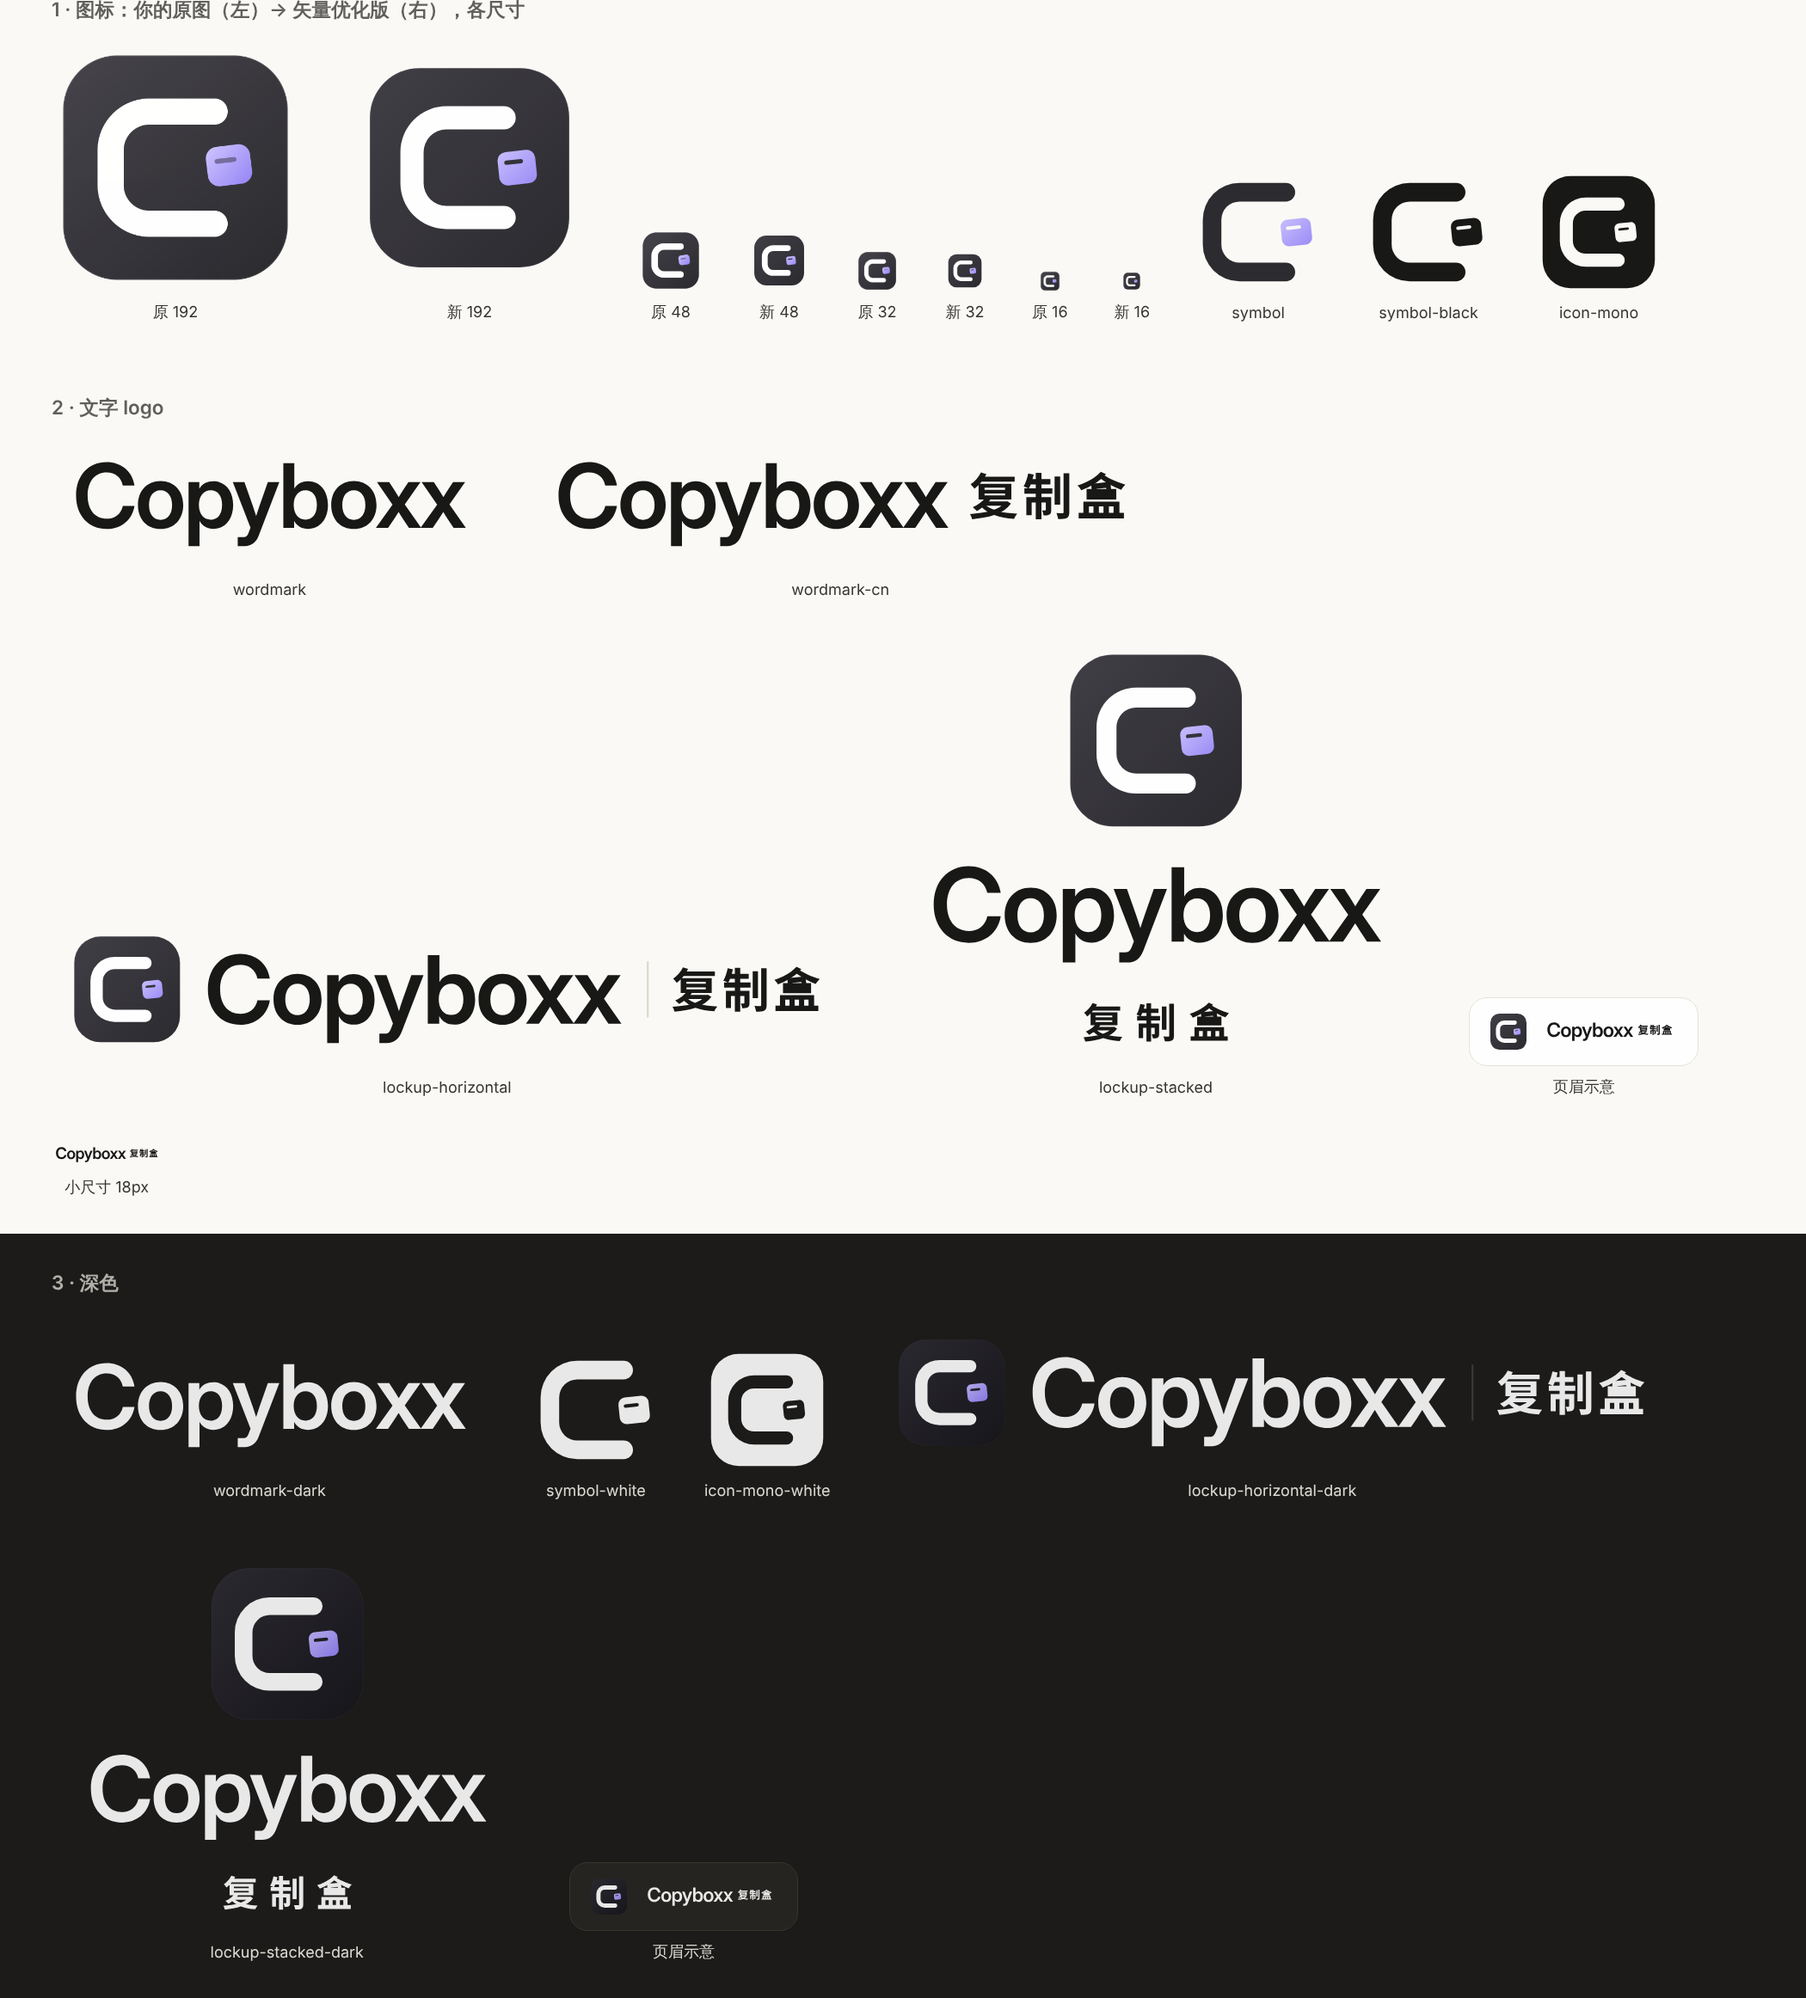
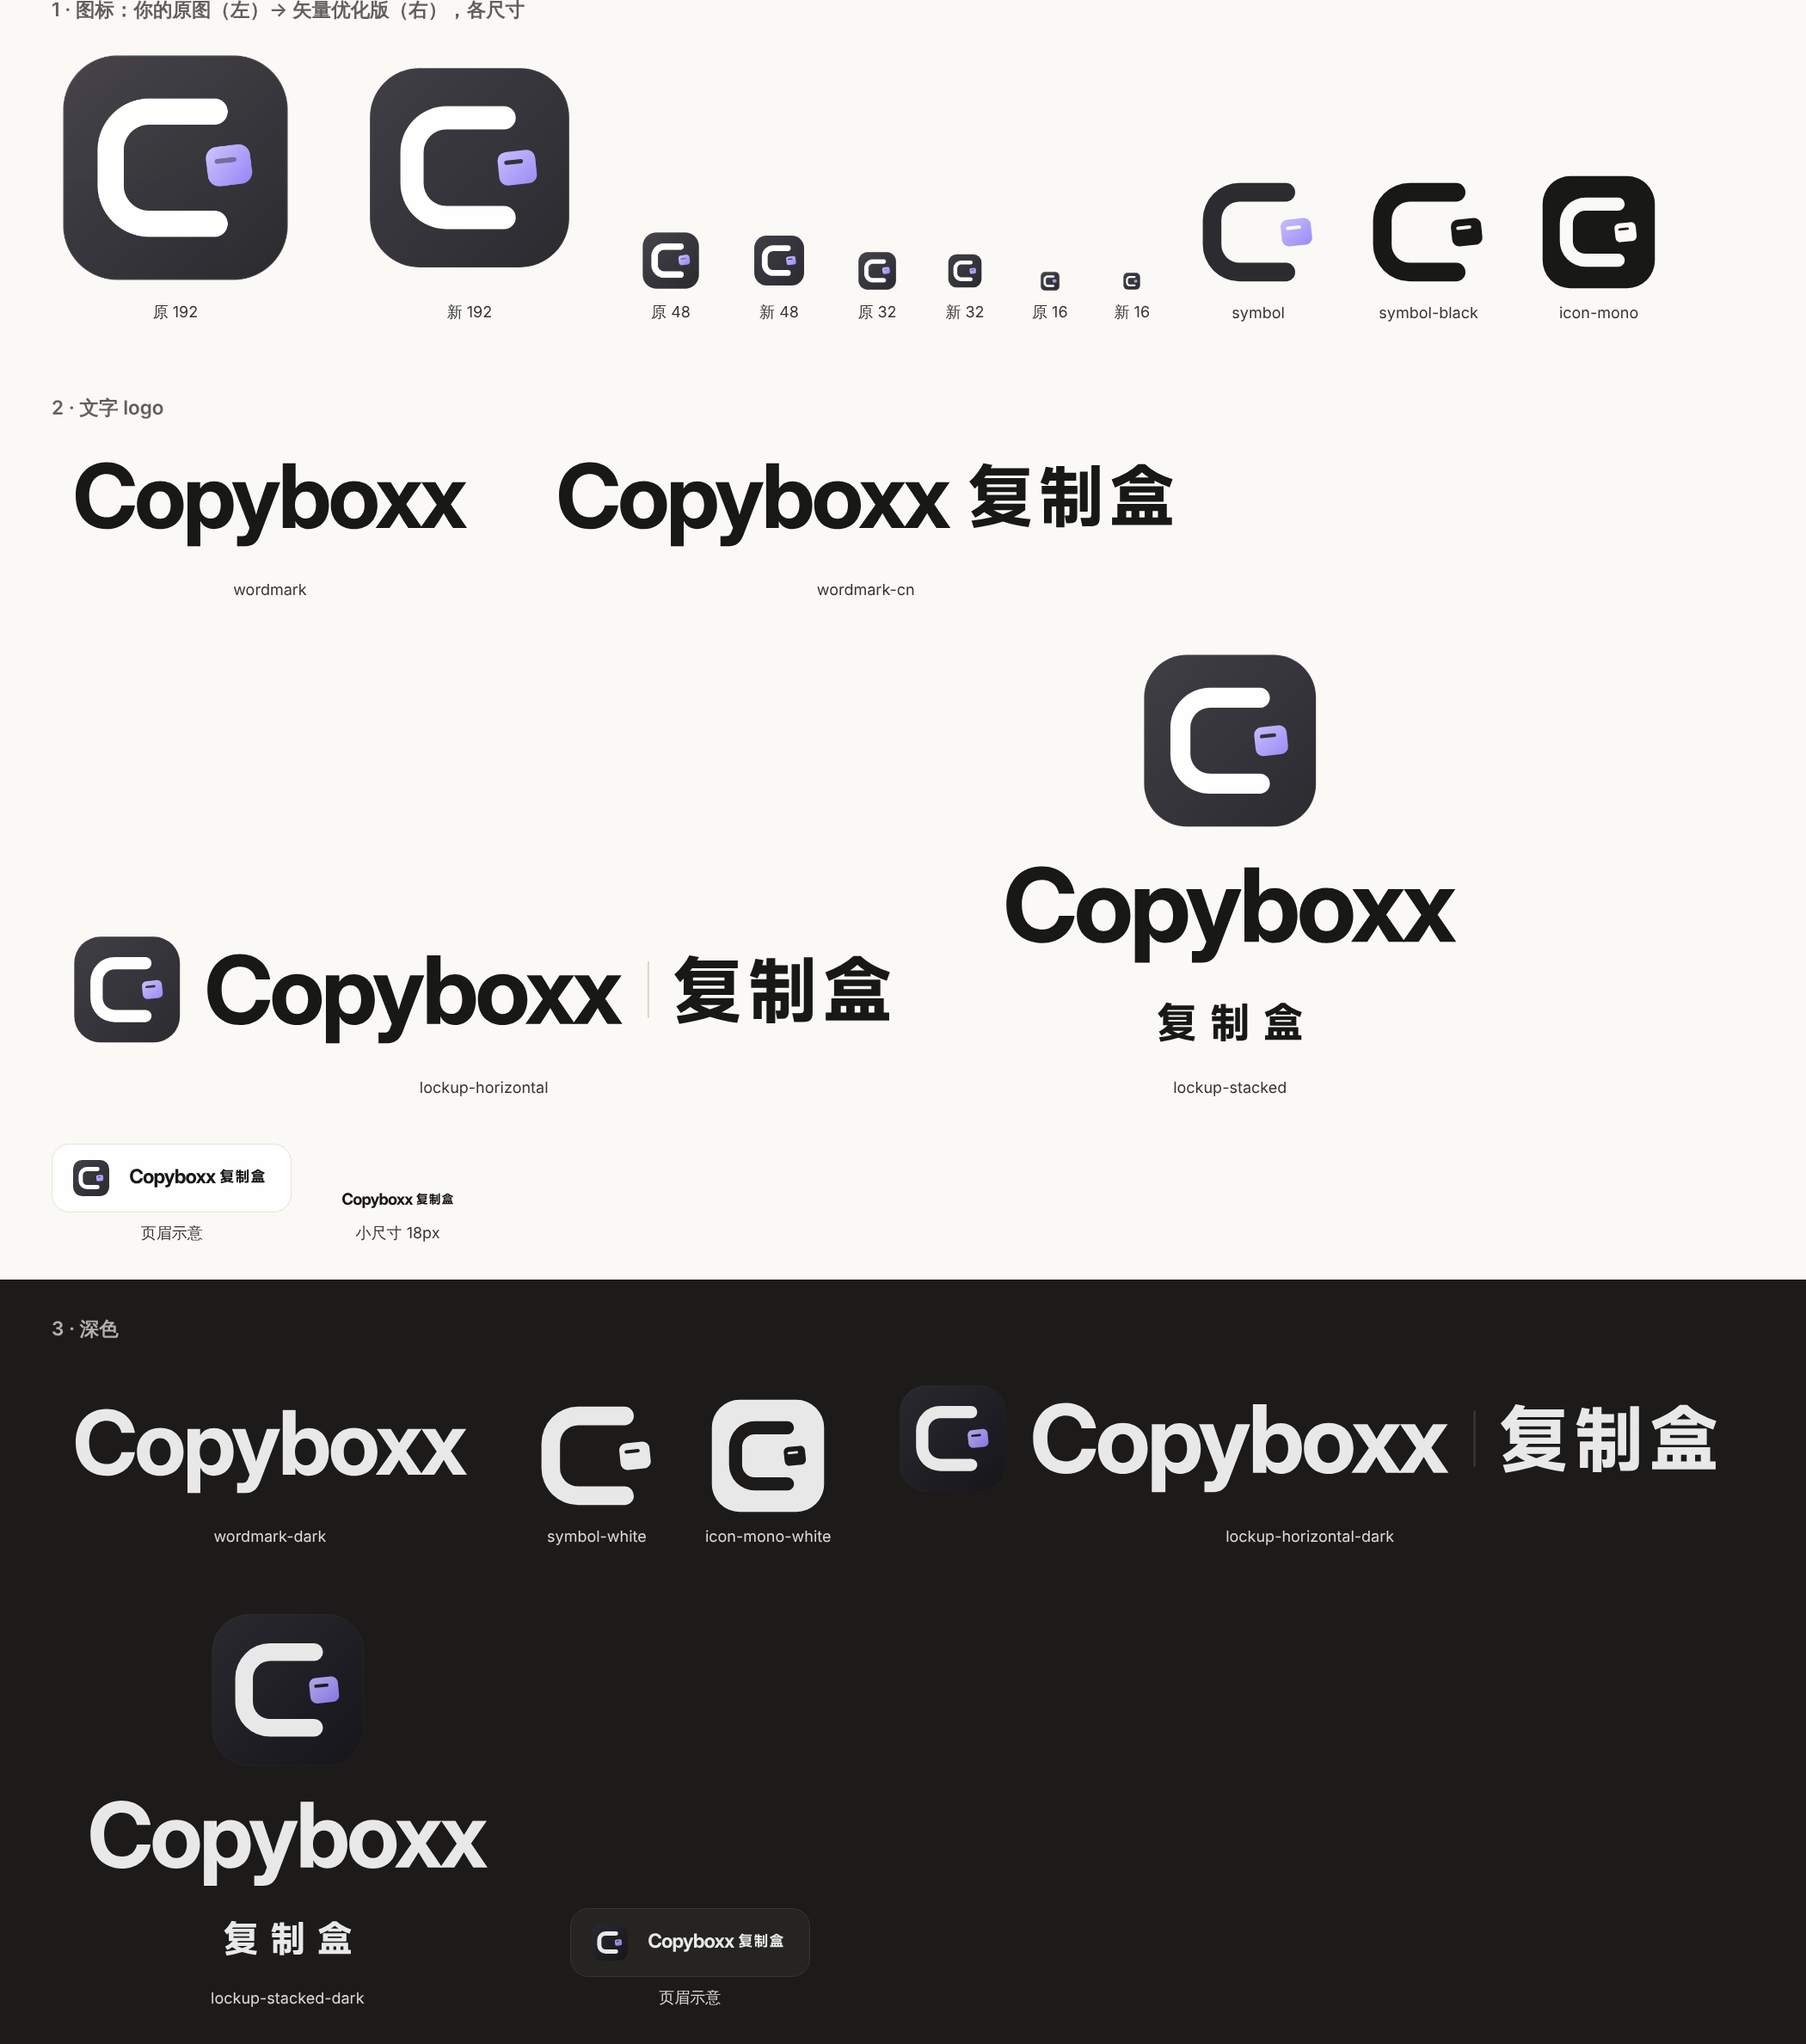
brand: wordmark set in Inter Display Bold + MiSans Bold, Chinese as tall as the caps (owner's choice)
Claude-Session: https://claude.ai/code/session_017WszKXZTp2VDK81tXgEMLn

diff --git a/tools/brand/build-logo.py b/tools/brand/build-logo.py
@@ -4,8 +4,8 @@
 Text is converted to outlines, so the SVG files need no fonts. To rebuild:
 
     pip install fonttools uharfbuzz
-    python3 tools/brand/build-logo.py --inter /usr/share/fonts/opentype/inter/InterDisplay-SemiBold.otf \
-        --noto NotoSansSC-700.ttf   # Noto Sans SC Bold (fonts.google.com/noto)
+    python3 tools/brand/build-logo.py --inter InterDisplay-Bold.otf   # Inter Display Bold (rsms.me/inter, OFL) \
+        --noto MiSans-Bold.ttf          # MiSans Bold (hyperos.mi.com/font, free for commercial use)
 
 Only the outputs in docs/brand/ are committed; the fonts are not.
 """
@@ -23,8 +23,9 @@ LINE = "#d9d5c9"; LINE_DARK = "#3f3d37"
 MUTED = "#55534d"; MUTED_DARK = "#b3b0a4"
 
 CAP = 1490 / 2048          # Inter Display cap height (em)
-CN_MID = 0.385             # visual centre of 复制盒 above baseline (em), measured
-CN_TRACK = 0.08
+CN_MID = 0.391             # visual centre of 复制盒 above baseline (em), MiSans Bold, measured
+CN_VIS = 0.962             # visual height of 复制盒 (em), MiSans Bold: the Chinese is set as tall as the Latin caps
+CN_TRACK = 0.05
 
 class Face:
     def __init__(self, path):
@@ -46,7 +47,7 @@ class Face:
 def paths(glyphs, dx, dy, color, cls=None):
     return "".join(f'<path fill="{color}" transform="translate({dx + x:.2f} {dy:.2f})" d="{d}"/>' for d, x, _ in glyphs if d)
 
-NAME = "Copyboxx"; TRACK = -0.025   # mixed case, tight
+NAME = "Copyboxx"; TRACK = -0.035   # Inter Display Bold, tight (owner, 2026-10-14)
 DESC = 494 / 2048                  # Inter descender (p, y)
 
 def wordmark(inter, size, dx, dy, ink, accent):
@@ -206,9 +207,9 @@ def build(inter, noto, out):
         write(f"wordmark{sfx}.svg", svg(w + 2 * pad, H, wm))
 
         # 3. Wordmark with Chinese: Copyboxx 复制盒 (one line, for a page header).
-        cn_size = 56; gap = 22
+        cn_size = cap / CN_VIS; gap = 0.18 * size
         cn_base = pad + cap - cap / 2 + CN_MID * cn_size
-        c, cw = cn(noto, "复制盒", cn_size, pad + w + gap, cn_base, ink, purple=accent)
+        c, cw = cn(noto, "复制盒", cn_size, pad + w + gap, cn_base, ink)
         write(f"wordmark-cn{sfx}.svg", svg(w + gap + cw + 2 * pad, H, wm + c))
 
         # 4. Horizontal lockup: mark + Copyboxx | 复制盒.
@@ -219,7 +220,8 @@ def build(inter, noto, out):
         x += w + 26
         body += f'<rect x="{x:.2f}" y="{mid - 30:.2f}" width="2" height="60" rx="1" fill="{line}"/>'
         x += 2 + 24
-        c, cw = cn(noto, "复制盒", 50, x, mid + CN_MID * 50, ink, purple=accent); body += c
+        cn_size = cap / CN_VIS
+        c, cw = cn(noto, "复制盒", cn_size, x, mid + CN_MID * cn_size, ink); body += c
         write(f"lockup-horizontal{sfx}.svg", svg(x + cw + pad, max(mh + 2 * pad, mid + cap / 2 + desc + pad), body))
 
         # 5. Stacked lockup: mark above, Copyboxx, 复制盒 letter-spaced.
@@ -230,8 +232,8 @@ def build(inter, noto, out):
         y = pad + mh + 40 + cap
         body += paths(g[:-1], (W - w) / 2, y, ink) + paths(g[-1:], (W - w) / 2, y, accent)
         cn_size = 40; y += desc + 36 + cn_size * 0.85
-        c2, w2 = cn(noto, "复制盒", cn_size, 0, 0, ink, tracking=0.3, purple=accent)
-        c2, _ = cn(noto, "复制盒", cn_size, (W - w2) / 2, y, ink, tracking=0.3, purple=accent)
+        c2, w2 = cn(noto, "复制盒", cn_size, 0, 0, ink, tracking=0.3)
+        c2, _ = cn(noto, "复制盒", cn_size, (W - w2) / 2, y, ink, tracking=0.3)
         body += c2
         write(f"lockup-stacked{sfx}.svg", svg(W, y + cn_size * 0.15 + pad, body))
 

diff --git a/docs/log/2026-10-13-brand-logo.md b/docs/log/2026-10-13-brand-logo.md
@@ -1,7 +1,7 @@
 # Brand files: owner's C icon as vector, Copyboxx / 复制盒 wordmark
 
 - Date: 2026-10-13 · Thread/agent: 【品牌】logo 与文字标
-- What changed: New `docs/brand/` with the app icon as SVG, traced from the owner's 1024 px original (dark gradient squircle, white sideways U — the C of Copyboxx / an open box — with a tilted purple card in its mouth; the lock icon that shipped since the Electron days was a placeholder; the squircle's outside is transparent, no cream tile), a new wordmark「Copyboxx」(Inter Display SemiBold) and「复制盒」(Noto Sans SC Bold; the 口 inside 盒 replaced by the icon's tilted card with a knocked-out text line), all text pure black (pure white on dark), 「Copyboxx 复制盒」, horizontal and stacked lockups, each light/dark, all text as outlines; README and preview.png. `src-tauri/icons/icon.png`, `icon.ico`, `icon.icns` re-exported from the SVG (same sizes and ICNS slots as before). Generators in `tools/brand/` (build-logo.py, export-icons.py); fonts not committed. Two logo-design skills vendored into `.claude/skills/` at the owner's request (2026-10-14): `logo-design` (kaankiziltug/logo-design-skill, MIT, with its 1,400-logo SVG reference library and audit/export scripts) and `logo-forge` (Claude-Booster/logo-forge, no license file upstream — internal use only); each has a SOURCE.md with the commit.
+- What changed: New `docs/brand/` with the app icon as SVG, traced from the owner's 1024 px original (dark gradient squircle, white sideways U — the C of Copyboxx / an open box — with a tilted purple card in its mouth; the lock icon that shipped since the Electron days was a placeholder; the squircle's outside is transparent, no cream tile), a new standalone wordmark「Copyboxx」(Inter Display Bold, −3.5%) and「复制盒」(MiSans Bold, set as tall as the Latin caps; owner's choice 2026-10-14 after type studies), all text pure black (pure white on dark), 「Copyboxx 复制盒」, horizontal and stacked lockups, each light/dark, all text as outlines; README and preview.png. `src-tauri/icons/icon.png`, `icon.ico`, `icon.icns` re-exported from the SVG (same sizes and ICNS slots as before). Generators in `tools/brand/` (build-logo.py, export-icons.py); fonts not committed. Two logo-design skills vendored into `.claude/skills/` at the owner's request (2026-10-14): `logo-design` (kaankiziltug/logo-design-skill, MIT, with its 1,400-logo SVG reference library and audit/export scripts) and `logo-forge` (Claude-Booster/logo-forge, no license file upstream — internal use only); each has a SOURCE.md with the commit.
 - User-visible change: 应用图标换成老板的 C 形图标（矢量优化版）；新增 Copyboxx / 复制盒 文字 logo 文件
 - Not done / risks: The wordmark is not yet used inside the app. ICNS is written by our own script, not `tauri icon`; check the Dock icon on a Mac build. `logo-forge` upstream has no LICENSE file, so it must not be redistributed outside the team until one appears. The `logo-design` library adds 14 MB of third-party SVGs to the repo (reference only).
 - Next step: The product is Copyboxx on main already (D-046); use `wordmark-cn.svg` in the settings header and deploy the website so the new favicon and share card go live.

diff --git a/docs/brand/README.md b/docs/brand/README.md
@@ -1,8 +1,8 @@
 # Copyboxx 品牌文件
 
 图标：按老板给的 1024px 原图描成矢量——深色渐变圆角方块，白色侧着的 U（既是 Copyboxx 的 C，也是一个开口的盒子），
-开口里一块略微倾斜的紫色小卡片（复制出来的那一条，上面一道文字线）。文字 logo「Copyboxx」和「复制盒」是新设计：
-「盒」字里的「口」换成了图标里那张斜卡片，中文和图标讲的是同一件事——盒子里装着复制出来的内容。所有 SVG 都已转成轮廓，不依赖字体。
+开口里一块略微倾斜的紫色小卡片（复制出来的那一条，上面一道文字线）。文字 logo 单独成立、不依赖图标，走互联网主流审美：「Copyboxx」Inter Display Bold，「复制盒」MiSans Bold，
+中文和英文大写等高。所有 SVG 都已转成轮廓，不依赖字体。
 
 ## 文件
 
@@ -21,9 +21,10 @@
 
 ## 设计说明
 
-- 字体：Latin 用 Inter Display SemiBold 大小写「Copyboxx」，字距 −2.5%；中文用 Noto Sans SC Bold，字距 +8%。文字已转轮廓，改字要重新生成。
-- 中文的设计：「盒」字中间的「口」删掉，换成图标里那张卡片的形状（圆角、逆时针 6°、一道镂空的文字线），大小正好填在「口」的位置，
-  22px 以下仍能认出是「盒」。
+- 字体（老板定稿 2026-10-14）：Latin 用 **Inter Display Bold**「Copyboxx」，字距 −3.5%；中文用 **MiSans Bold**「复制盒」，字距 +5%，
+  字号取英文大写高 ÷ 0.962（MiSans 汉字的视觉高度），所以中文和英文大写一样高，中文中线对齐大写中线。文字已转轮廓，改字要重新生成。
+- 字体授权：Inter 是 SIL OFL 1.1，可免费商用、可做 logo；MiSans 是小米授权，个人和商业免费，可做 logo，不得修改后再分发。
+  苹方（PingFang）只能在苹果设备上显示，不能用在 logo 和 Windows 素材里，所以没用。
 - 颜色：文字只用纯黑 `#000000`（深色底上纯白 `#ffffff`），没有第二种颜色；紫色只出现在图标里。卡片上的文字线是镂空的，放在任何底色上都对。
 - 图标（1024 画布）：方块 48–976、圆角 230，渐变 `#2d2b33`→`#16151b`，边上一圈 7% 白色细线；C 线宽 108、端头圆，外圆角 214；
   紫卡片 176×156、圆角 40、逆时针转 6°，渐变 `#c4b9ff`→`#8f7ff6`，文字线 88×20。
@@ -46,10 +47,10 @@
 
 ```bash
 pip install fonttools uharfbuzz pillow
-python3 tools/brand/build-logo.py --inter <InterDisplay-SemiBold.otf> --noto <NotoSansSC-Bold.ttf>
+python3 tools/brand/build-logo.py --inter <InterDisplay-Bold.otf> --noto <MiSans-Bold.ttf>
 node scripts/render-icons.mjs          # src-tauri/icons: icon.png / .ico / .icns、安装包图片（用 Playwright 的 Chromium 和 tauri icon）
 node tools/website/make-icons.mjs      # 网站 favicon.ico、触摸图标、分享图
 # tools/brand/export-icons.py 是旧的导出脚本，没有 Node 环境时可以用它从 1024 PNG 直接写 ico / icns
 ```
 
-字体不入库：Inter 见 rsms.me/inter，Noto Sans SC 见 fonts.google.com/noto。
+字体不入库：Inter 见 rsms.me/inter，MiSans 见 hyperos.mi.com/font。
